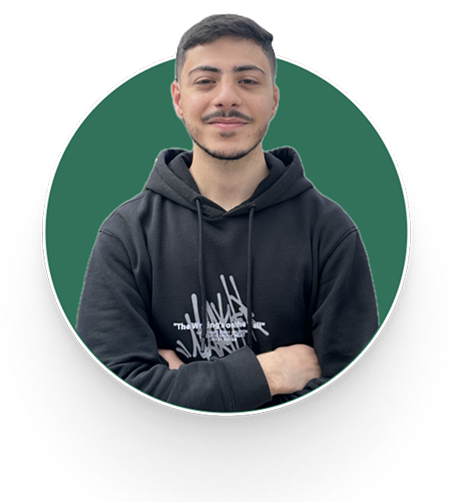
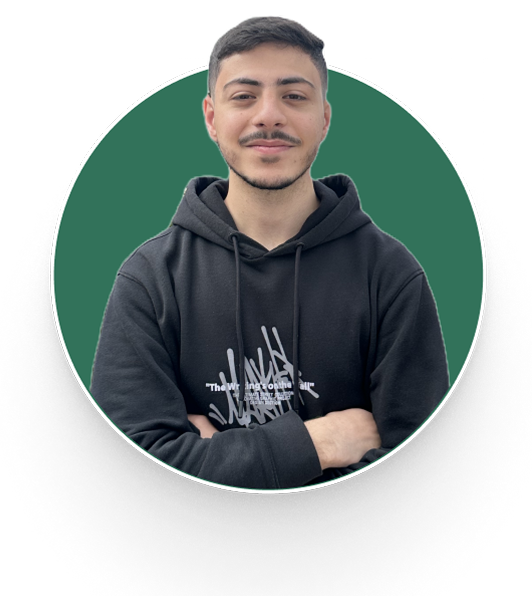
updating chapters

diff --git a/src/app/data/chatpers.jsx b/src/app/data/chatpers.jsx
@@ -473,12 +473,12 @@ export const chapters = [
 		],
 	},
 	{
-		name: "Robotics & Automation Society (RAS)",
+		name: "Robotics & Automation Society ",
 		descpt:
 			"The IEEE Robotics and Automation Society (RAS) is a group within IEEE that focuses on robotics and automation. It supports research, organizes conferences, and helps professionals and students in the field.",
 		color: "#bc0010",
 		variantcolor: "#740f00",
-		momos: "/assets/momoset/momos_ras.svg",
+		momos: "/assets/momoset/momos_ras.png",
 		slug: "ras",
 		excom_image:"/assets/chapters/pes_cover.jpg",
 		team: [
@@ -703,176 +703,31 @@ export const chapters = [
 		],
 			latestActivities: [
 			{
-				"Event Title": "Robot's League 1.0",
+				"Event Title": "SolidWorks BootCamp",
 				"Event Date": "19 Nov 2023 8:00 AM",
 				"Event URL": "https://events.vtools.ieee.org/m/384199",
+				"Event_image": "https://res.cloudinary.com/dytybjqwb/image/upload/v1743464029/482448951_17899617087140920_4281904756229135368_n_dbgily.jpg",
 			},
-			{
-				"Event Title": "c++ workshop session for embedded systems",
-				"Event Date": "15 Jul 2023 2:00 PM",
-				"Event URL": "https://events.vtools.ieee.org/m/375978",
+				{
+				"Event Title": "SolidWorks BootCamp",
+				"Event Date": "19 Nov 2023 8:00 AM",
+				"Event URL": "https://events.vtools.ieee.org/m/384199",
+				"Event_image": "https://res.cloudinary.com/dytybjqwb/image/upload/v1743464028/482673620_17899617069140920_2966086212968560081_n_k3zkqh.jpg",
 			},
-			{
-				"Event Title": "SolidWorks speed modeling challenge 1.0",
-				"Event Date": "29 Apr 2023 2:00 PM",
-				"Event URL": "https://events.vtools.ieee.org/m/379082",
+			
+				{
+				"Event Title": "SolidWorks BootCamp",
+				"Event Date": "19 Nov 2023 8:00 AM",
+				"Event URL": "https://events.vtools.ieee.org/m/384199",
+				"Event_image": "https://res.cloudinary.com/dytybjqwb/image/upload/v1743464027/482535589_17899617084140920_823830245209295570_n_kzqxi8.jpg",
 			},
-			{
-				"Event Title": "SolidWorks training",
-				"Event Date": "19 Apr 2023 3:00 PM",
-				"Event URL": "https://events.vtools.ieee.org/m/379104",
-			},
-			{
-				"Event Title": "ROBONERDS 3.0",
-				"Event Date": "17 Apr 2023 1:30 PM",
-				"Event URL": "https://events.vtools.ieee.org/m/337692",
-			},
-			{
-				"Event Title": "Participation in Robothack'23",
-				"Event Date": "16 Apr 2023 2:00 PM",
-				"Event URL": "https://events.vtools.ieee.org/m/359229",
-			},
-			{
-				"Event Title": "Raspberry Pi workshop",
-				"Event Date": "13 Apr 2023 2:00 PM",
-				"Event URL": "https://events.vtools.ieee.org/m/337697",
-			},
-			{
-				"Event Title": "Solidworks Workshop",
-				"Event Date": "12 Mar 2023 1:00 PM",
-				"Event URL": "https://events.vtools.ieee.org/m/337699",
-			},
-			{
-				"Event Title": "PARTICIPATION IN FSM ROBOTS 2.0",
-				"Event Date": "05 Feb 2023 7:30 AM",
-				"Event URL": "https://events.vtools.ieee.org/m/351250",
-			},
-			{
-				"Event Title": "Participation in ENISROBOT",
-				"Event Date": "27 Nov 2022 8:00 AM",
-				"Event URL": "https://events.vtools.ieee.org/m/337180",
-			},
-			{
-				"Event Title": "ROBONERDS 2.0",
-				"Event Date": "19 Nov 2022 1:00 PM",
-				"Event URL": "https://events.vtools.ieee.org/m/334922",
-			},
-			{
-				"Event Title": "Zarzis Scouts: Introduction to Arduino",
-				"Event Date": "19 Jul 2022 4:00 PM",
-				"Event URL": "https://events.vtools.ieee.org/m/325849",
-			},
-			{
-				"Event Title": "Kid's paradise Hackathon",
-				"Event Date": "10 Jun 2022 1:00 PM",
-				"Event URL": "https://events.vtools.ieee.org/m/317235",
-			},
-			{
-				"Event Title": "MARIE CURIE COMPETITION",
-				"Event Date": "11 May 2022 2:00 PM",
-				"Event URL": "https://events.vtools.ieee.org/m/337168",
-			},
-			{
-				"Event Title": "ROBONERDS 1.0",
-				"Event Date": "07 May 2022 1:00 PM",
-				"Event URL": "https://events.vtools.ieee.org/m/313195",
-			},
-			{
-				"Event Title": "Participation in ENISO Smart Challenge",
-				"Event Date": "24 Apr 2022 9:00 AM",
-				"Event URL": "https://events.vtools.ieee.org/m/321320",
-			},
-			{
-				"Event Title": "Participation in  IHEC Enactus",
-				"Event Date": "13 Apr 2022 3:00 PM",
-				"Event URL": "https://events.vtools.ieee.org/m/337194",
-			},
-			{
-				"Event Title": "Kid's Paradise Arduino Workshop",
-				"Event Date": "06 Apr 2022 1:15 PM",
-				"Event URL": "https://events.vtools.ieee.org/m/311474",
-			},
-			{
-				"Event Title": "Kid's Paradise Scratch Workshop",
-				"Event Date": "05 Apr 2022 1:15 PM",
-				"Event URL": "https://events.vtools.ieee.org/m/311475",
-			},
-			{
-				"Event Title": "MARIE CURIE ARDUINO WORKSHOPS",
-				"Event Date": "01 Mar 2022 1:15 PM",
-				"Event URL": "https://events.vtools.ieee.org/m/337170",
-			},
-			{
-				"Event Title": "Kid's Paradise Arduino Workshop",
-				"Event Date": "03 Dec 2021 12:30 AM",
-				"Event URL": "https://events.vtools.ieee.org/m/294394",
-			},
-			{
-				"Event Title": "KICAD Training session",
-				"Event Date": "13 Nov 2021 1:30 PM",
-				"Event URL": "https://events.vtools.ieee.org/m/293225",
-			},
-			{
-				"Event Title": "IoT Festival",
-				"Event Date": "18 Oct 2021 5:00 PM",
-				"Event URL": "https://events.vtools.ieee.org/m/293499",
-			},
-			{
-				"Event Title": "Iot Festival",
-				"Event Date": "13 Oct 2021 5:00 PM",
-				"Event URL": "https://events.vtools.ieee.org/m/293495",
-			},
-			{
-				"Event Title": "IoT Festival",
-				"Event Date": "06 Oct 2021 5:00 AM",
-				"Event URL": "https://events.vtools.ieee.org/m/293475",
-			},
-			{
-				"Event Title": "IoT Festival",
-				"Event Date": "01 Oct 2021 5:00 PM",
-				"Event URL": "https://events.vtools.ieee.org/m/293358",
-			},
-			{
-				"Event Title": "From Dark Web To Crypto",
-				"Event Date": "17 Sep 2021 4:00 PM",
-				"Event URL": "https://events.vtools.ieee.org/m/293771",
-			},
-			{
-				"Event Title":
-					"Emerging technologies in robotics for factory automation",
-				"Event Date": "02 Sep 2021 10:00 AM",
-				"Event URL": "https://events.vtools.ieee.org/m/292812",
-			},
-			{
-				"Event Title": "COLLABORATION WITH IEEE RAS NCU SB 2.0",
-				"Event Date": "18 Aug 2021 1:00 PM",
-				"Event URL": "https://events.vtools.ieee.org/m/279980",
-			},
-			{
-				"Event Title": "SolidWorks Workshop",
-				"Event Date": "06 Aug 2021 2:00 PM",
-				"Event URL": "https://events.vtools.ieee.org/m/279540",
-			},
-			{
-				"Event Title": "Collaboration with University of Mauritius IET",
-				"Event Date": "03 Aug 2021 2:00 PM",
-				"Event URL": "https://events.vtools.ieee.org/m/279986",
-			},
-			{
-				"Event Title": "Webinar on Basics of Robotics and AI event",
-				"Event Date": "15 Jul 2021 12:30 PM",
-				"Event URL": "https://events.vtools.ieee.org/m/280197",
-			},
-			{
-				"Event Title": "Collaboration with IEEE RAS NCU SB - India",
-				"Event Date": "19 Jun 2021 12:30 PM",
-				"Event URL": "https://events.vtools.ieee.org/m/275355",
-			},
-			{
-				"Event Title": "Python Bootcamp, IOT & Digital Marketing",
-				"Event Date": "04 May 2021 9:30 PM",
-				"Event URL": "https://events.vtools.ieee.org/m/275280",
-			},
+			
+				{
+				"Event Title": "SolidWorks BootCamp",
+				"Event Date": "19 Nov 2023 8:00 AM",
+				"Event URL": "https://events.vtools.ieee.org/m/384199",
+				"Event_image": "https://res.cloudinary.com/dytybjqwb/image/upload/v1743464025/482623823_17899617060140920_8908668474452551760_n_gxhiba.jpg",
+			}
 		],
 	},
 	{
@@ -887,7 +742,7 @@ export const chapters = [
 			"The IEEE IAS-IES-PES Joint Chapter at ESSTHS serves as a dynamic platform for students passionate about industrial applications, power and energy systems, and industrial electronics. By integrating the expertise of the IEEE Industry Applications Society (IAS), IEEE Industrial Electronics Society (IES), and IEEE Power & Energy Society (PES), this chapter fosters technical excellence, professional growth, and industry engagement. Through a variety of initiatives—including workshops, seminars, technical projects, and industrial visits—members gain valuable hands-on experience and insights into real-world engineering challenges, effectively bridging the gap between academia and industry.",
 		color: "#1a9e39",
 		variantcolor: "#0e5b30",
-		momos: "/assets/momoset/momos_iip.svg",
+		momos: "/assets/momoset/momos_iiip.png",
 		slug: "iip",
 		excom_image:"/assets/chapters/pes_cover.jpg",
 		team: [
@@ -1251,12 +1106,12 @@ export const chapters = [
 	// 	excom_image: ias_cover,
 	// },
 	{
-		name: "Special Interest Group on Humanitarian Technology (SIGHT)",
+		name: "Special Interest Group on Humanitarian Technology",
 		descpt:
 			"SIGHT (Special Interest Group on Humanitarian Technology) is an IEEE program dedicated to leveraging technology for social good. Our chapter at ESSTHS focuses on developing innovative solutions to address local and global humanitarian challenges, fostering collaboration among students, professionals, and communities. Through workshops, projects, and outreach initiatives, we aim to make a positive impact using engineering and technology.",
 		color: "#c65503",
 		variantcolor: "#CD163E",
-		momos: "/assets/momoset/momos_sight.svg",
+		momos: "/assets/momoset/momos_sight.png",
 		slug: "sight",
 		excom_image: "/assets/chapters/sight_cover.jpg",
 		team: [
@@ -1371,7 +1226,7 @@ export const chapters = [
 			"IEEE Women in Engineering (WIE) is a global network of IEEE members and volunteers dedicated to promoting women engineers and scientists and inspiring girls around the world to follow their academic interests in a career in engineering and science.",
 		color: "#ad0fa4",
 		variantcolor: "#4c1064",
-		momos: "/assets/momoset/momos_wie.svg",
+		momos: "/assets/momoset/momos_wie.png",
 		slug: "wie",
 		excom_image:"../../assets/chapters/wie_cover.jpg",
 		team: [
@@ -1747,7 +1602,7 @@ export const chapters = [
 			"The IEEE AESS Student Branch Chapter (SBC) at ESSTHS is dedicated to advancing knowledge and innovation in aerospace, electronic systems, and embedded technologies. Our mission is to provide a platform for students to explore cutting-edge fields such as avionics, satellite communications, radar systems, autonomous aerospace applications, and embedded electronic systems./n Through workshops, technical sessions, hands-on projects, and industry collaborations, we bridge the gap between theory and real-world applications. By connecting students with professionals, researchers, and IEEE AESS resources, we foster a dynamic community passionate about shaping the future of aerospace, electronics, and embedded systems.",
 		color: "#4a12aa",
 		variantcolor: "#4c1064",
-		momos: "/assets/momoset/momos_aess.svg",
+		momos: "/assets/momoset/momos_aess.png",
 		slug: "aess",
 		excom_image:
 			"https://scontent.ftun16-1.fna.fbcdn.net/v/t39.30808-6/343659367_1699499560470613_5370874928584365932_n.jpg?_nc_cat=103&ccb=1-7&_nc_sid=730e14&_nc_ohc=d4nyr2B8VhIAX_4Yjz3&_nc_ht=scontent.ftun16-1.fna&oh=00_AfC8-pmvjaCbhmuRkiZWOteAYdvv1JgwcvdYCFWzjTOdGg&oe=64C2806C",

diff --git a/src/app/data/upcomingevents.js b/src/app/data/upcomingevents.js
@@ -16,9 +16,9 @@ export const upevents = [
 		"State": "in Progress",
 		"Event_link":"https://www.facebook.com/profile.php?id=61557575908522",
 		"Event_image": "events/aess_drone_project.jpg",
-		"Event_pdp": "https://res.cloudinary.com/dytybjqwb/image/upload/v1743120305/aess_talk_q9xprg.png",
+		"Event_pdp": "events/aess_drone_project_post.jpg",
 
-		"desrip":"AESS Ramadhan Talks 2.0 (2025): This year, AESS Ramadhan Talks 2.0 returns as an online event featuring a series of expert-led workshops and sessions. Focused on 'Technologies and Communications in Space,' the event will cover key topics such as 5G and space, cybersecurity, IoT, and their implementation in space. It provides a platform for participants to gain valuable insights from industry experts and explore the latest advancements shaping the future of space technology.",
+		"desrip":"Ready to dive into the fascinating world of drones? This is more than just a session — it's a full bootcamp made up of multiple online and offline sessions, designed to take you from curious beginner to confident drone explorer!Whether you're just getting started or want to level up your skills, this bootcamp is built for you.✨ What's included?✅ Hands-on learning (online & in-person)✅ Real-world drone applications✅ Guidance from experienced mentors✅ Certificate of participation at the end of the program✅ Exciting activities beyond drones to make your experience unforgettable!",
 	},
 	{
 		"Event Title": "Aess Talk",

diff --git a/src/app/pages/Chapter.page.jsx b/src/app/pages/Chapter.page.jsx
@@ -45,7 +45,7 @@ export default function ChapterPage() {
 		<div className="py-40">
 		
 	<motion.div
-  className="flex items-center justify-center gap-3 text-white h-[25vh] sm:h-[30vh] md:h-[26vh] mt-5 px-4"
+  className="flex items-center justify-center gap-1 text-white h-[25vh] sm:h-[30vh] md:h-[26vh] mt-5 px-4"
   style={{
     background: `linear-gradient(20deg, ${currentChapter.color}, ${currentChapter.variantcolor})`,
     backgroundSize: "200% 200%",
@@ -62,19 +62,19 @@ export default function ChapterPage() {
     repeat: Infinity,
   }}
 >
-  <div className="w-auto flex justify-center">
+  <div className="w-[30%]  h-[150%] flex justify-center">
     <img
       src={currentChapter.momos}
       alt=""
-      className="w-[120px] sm:w-[120px] md:w-[150px] h-auto object-contain"
+      className="w-full sm:w-[120px] md:w-[200px] h-full object-contain z-10"
     />
   </div>
 
-  <div className="flex items-center justify-center w-1/2">
+  <div className="flex items-center justify-start w-[50%] ">
   
 
     <motion.h2
-      className="text-white text-2xl sm:text-2xl md:text-6xl font-bold text-center leading-tight"
+      className="text-white  text-2xl sm:text-xl lg:text-6xl md:text-5xl font-bold text-left leading-tight"
       initial={{ y: -10, opacity: 0 }}
       animate={{ y: 0, opacity: 1 }}
       transition={{ duration: 0.5, delay: 0.3 }}

diff --git a/src/app/data/chairs.jsx b/src/app/data/chairs.jsx
@@ -65,7 +65,7 @@ export const chairsData = [
 			url: "https://res.cloudinary.com/dytybjqwb/image/upload/v1741533707/chair_m4wjgh.png",
 		},
 		imageSmall: {
-			url: "https://res.cloudinary.com/dytybjqwb/image/upload/v1743403950/chair_m4wjgh.png",
+			url: "https://res.cloudinary.com/dytybjqwb/image/upload/c_thumb,g_face,w_800/v1743403950/chair_m4wjgh.png",
 		},
 	},	{
 		active: true,
@@ -87,7 +87,7 @@ export const chairsData = [
 			url: "https://res.cloudinary.com/dytybjqwb/image/upload/v1743400191/chair1_lzshyq.png",
 		},
 		imageSmall: {
-			url: "https://res.cloudinary.com/dytybjqwb/image/upload/v1743400191/chair1_lzshyq.png",
+			url: "https://res.cloudinary.com/dytybjqwb/image/upload/w_900/v1743400191/chair1_lzshyq.png",
 		},
 	},
 	{
@@ -110,7 +110,7 @@ export const chairsData = [
 			url: "https://res.cloudinary.com/dytybjqwb/image/upload/v1742607540/chair_aohb6r.png",
 		},
 		imageSmall: {
-			url: "https://res.cloudinary.com/dytybjqwb/image/upload/v1742607540/chair_aohb6r.png",
+			url: "https://res.cloudinary.com/dytybjqwb/image/upload/c_thumb,g_face,w_600/v1742607540/chair_aohb6r.png",
 		},
 	},
 

diff --git a/src/app/components/Chairs.jsx b/src/app/components/Chairs.jsx
@@ -18,15 +18,16 @@ export default function Chairs() {
 							key={speaker.name}
 							className="col-span-6 rounded-xl border-2 p-2 transition hover:border-gray-600 focus:border-gray-900 dark:border-gray-800 dark:hover:border-gray-600 dark:focus:border-gray-500 md:col-span-3 lg:col-span-2    "
 						>
-							<img
-								style={{
-									objectPosition: "center top",
-								}}
-								src={speaker.imageSmall.url}
-								alt=""
-								className="aspect-[12/16] w-full rounded-lg object-cover sm:aspect-[12/16]"
-								loading="lazy"
-							/>
+						
+ <div className="relative w-full aspect-[2/4] sm:aspect-[3/4] overflow-hidden rounded-lg ">
+  <img
+    src={speaker.imageSmall.url}
+    alt={speaker.name}
+    loading="lazy"
+    className="absolute inset-0 w-full h-full object-contain"
+  />
+</div>
+
 							<div className="text-center -mt-12">
 							<div className="font-bold">{speaker.name}</div>
 							{/* <div className="mb-2 text-sm text-gray-600 dark:text-gray-400">

diff --git a/src/app/components/Chapter.jsx b/src/app/components/Chapter.jsx
@@ -98,7 +98,7 @@ export function Events({ chapter }) {
 			<div className="relative flex w-full items-center justify-center">
 				<button
 					onClick={scrollLeft}
-					className="absolute left-2 sm:left-4 z-10 rounded-full bg-white p-2 sm:p-3 shadow-lg transition hover:bg-gray-200 dark:bg-gray-800 dark:hover:bg-gray-700"
+					className="absolute left-2 sm:left-4 z-1 rounded-full bg-white p-2 sm:p-3 shadow-lg transition hover:bg-gray-200 dark:bg-gray-800 dark:hover:bg-gray-700 z-10"
 				>
 					◀
 				</button>
@@ -148,7 +148,7 @@ export function Events({ chapter }) {
 							</div>
 							
 							{/* Subtle gradient overlay at bottom for depth */}
-							<div className="absolute bottom-0 left-0 right-0 h-20 bg-gradient-to-t from-black/50 to-transparent"></div>
+							<div className="absolute bottom-0 left-0 right-0 h-20 bg-gradient-to-t from-black/50 to-transparent "></div>
 						</motion.div>
 					))}
 				</div>

diff --git a/src/app/components/chatbot/chatbot.jsx b/src/app/components/chatbot/chatbot.jsx
@@ -95,11 +95,11 @@ const handleSendMessage = () => {
 			{!isOpen && (
 			
 				
-						<div onClick={togglePopup}>
+						<div onClick={togglePopup} className="z-50">
 						<img
 							src={mosmos}
 							className={twMerge(
-								"fixed top-20 z-10 h-24 rotate-45 object-contain transition hover:scale-110 md:right-0 md:top-auto md:bottom-24 md:-rotate-45 cursor-pointer"
+								"fixed top-20 z-50 h-24 rotate-45 object-contain transition hover:scale-110 md:right-0 md:top-auto md:bottom-24 md:-rotate-45 cursor-pointer"
 							)}
 							alt="mosmos mascot"
 						/>
